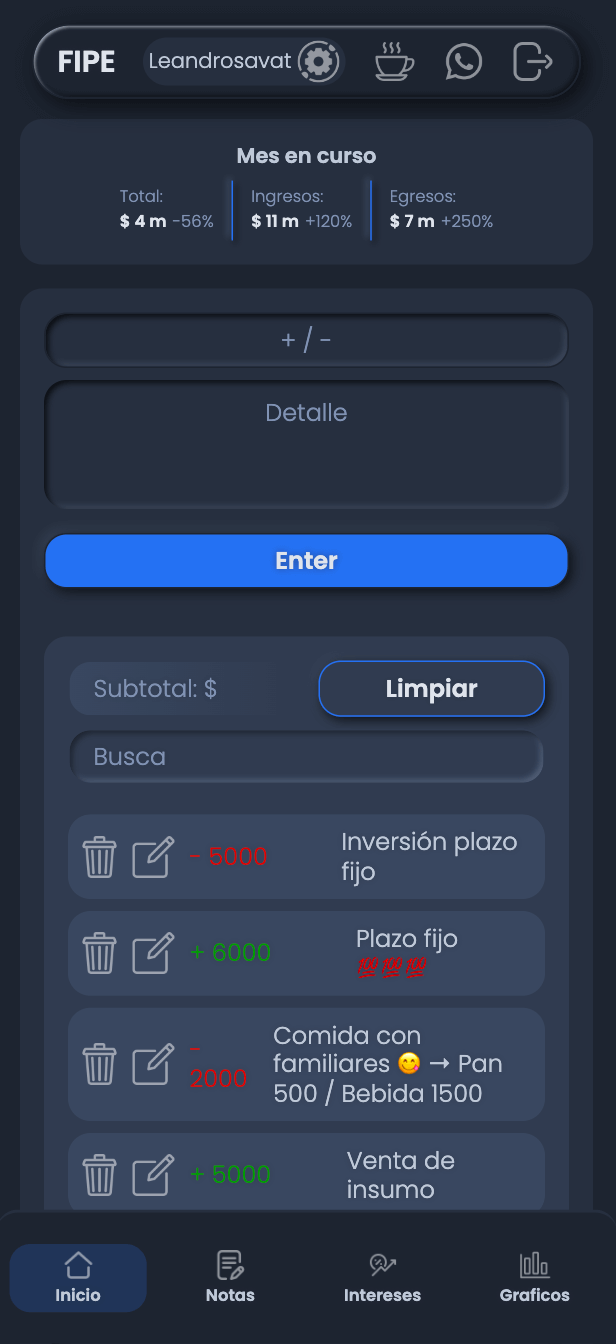
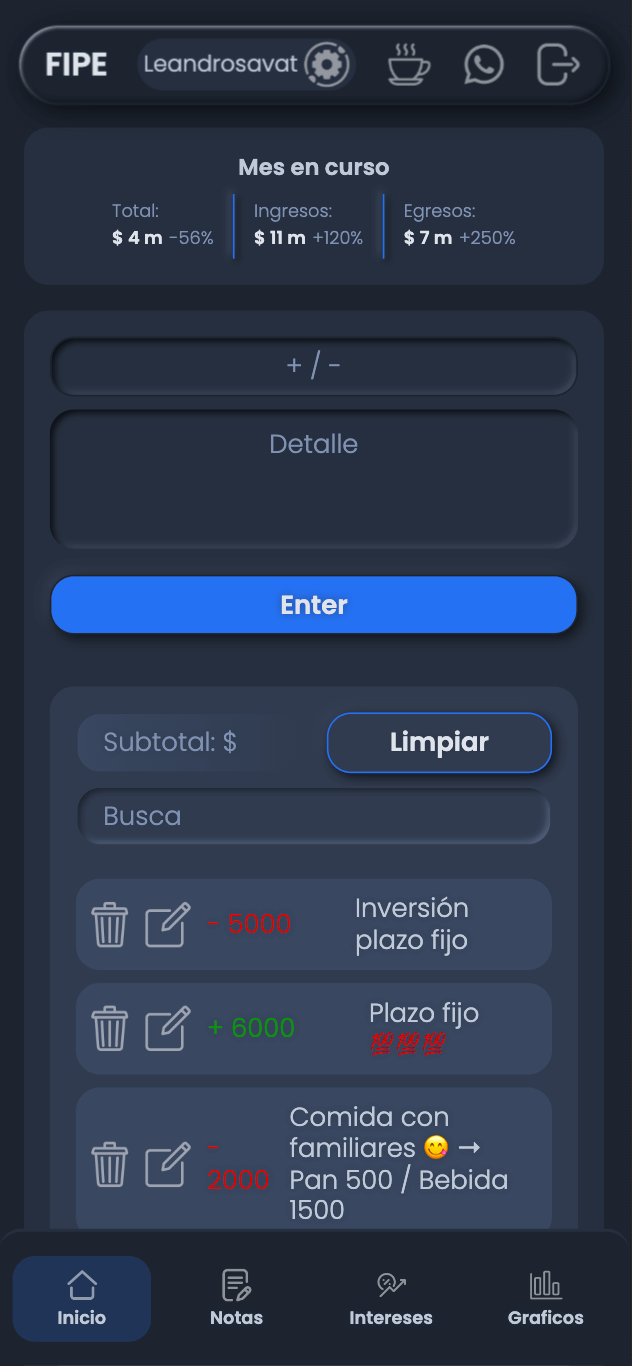
feat: adjust menu button

diff --git a/client/src/responsive.css b/client/src/responsive.css
@@ -220,7 +220,7 @@
 
   .pressed,
   .menuItem {
-    padding: var(--space2);
+    padding: var(--space3) 0;
     gap: var(--space2);
     box-shadow: none;
   }
